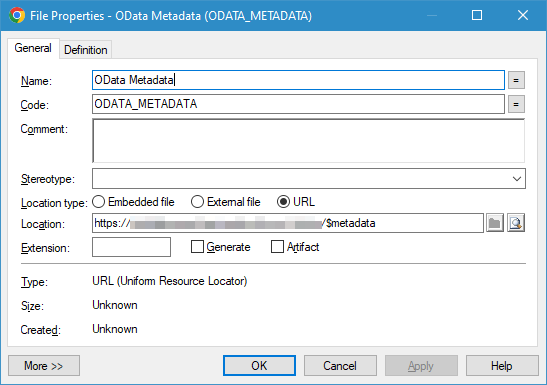
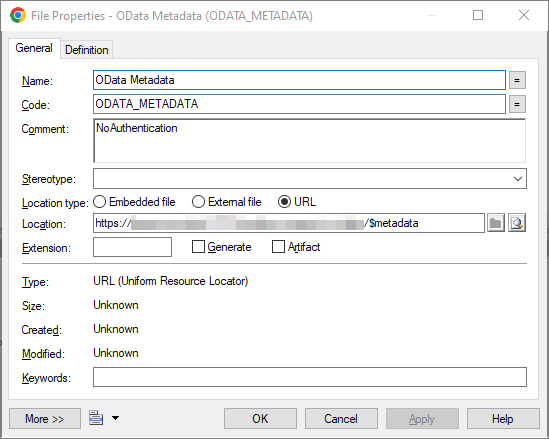
Updated README and screenshot for metadata file.

Changed region(s): [[0.0, 0.0, 1.0, 1.0]]

diff --git a/README.md b/README.md
@@ -41,7 +41,7 @@ When you want to update an existing model which was not reverse engineered using
 1. Given the new file the `Name` 'OData Metadata' and the `Code` 'ODATA_METADATA'.
 1. Set the `Location type` to 'URL'.
 1. Set the `Location` to the URL to the $metadata location of the OData metadata feed.
-1. Set the 'Comment' value either to 'NoAuthencation' or 'BasicAuthentication', depending on the required authentication method.
+1. Set the `Comment` value either to 'NoAuthencation' or 'BasicAuthentication', depending on the required authentication method.
 1. Untick the `Generate` option.
 1. Click `OK`.
 
